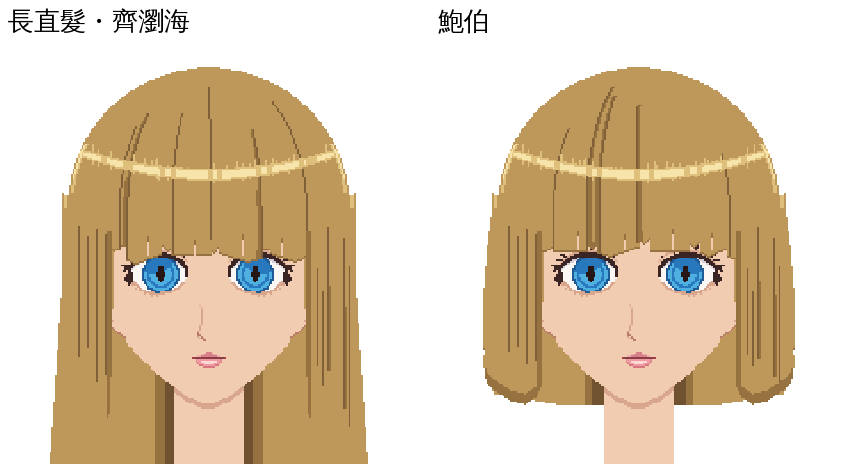
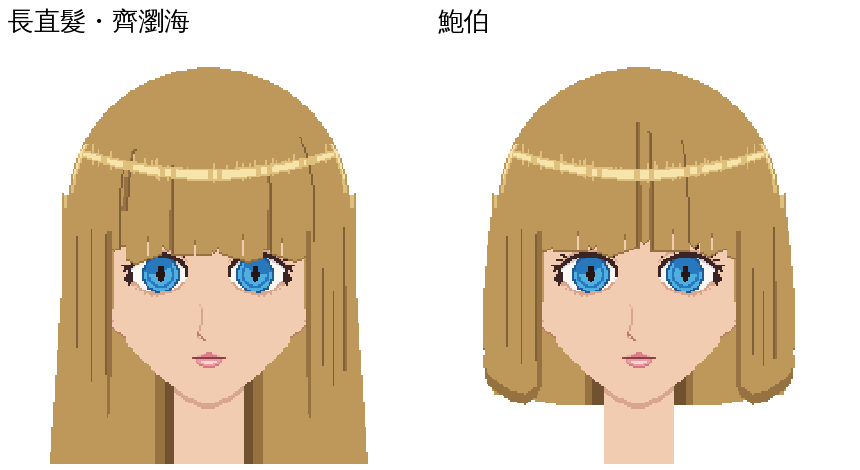
droom 臉模 v2：頭髮線條減少（使用者：線太多）——瀏海分界一半以上不畫、多半只畫中下段；兩側線距拉開、一半不畫
Claude-Session: https://claude.ai/code/session_01FDQv7ddy7JMjePn6AqJ3VJ

diff --git a/web/droom/face_mold/v2/hair_one.py b/web/droom/face_mold/v2/hair_one.py
@@ -124,9 +124,9 @@ def render(img,stage):
   rl=random.Random(5 if HS!='bob' else 9)
   ytop,ybot=int(CY-RO*.86),BANG_Y+6
   for ph in MER[1:-1]:
-    kind=rl.choices(['none','thin','thick'],[.3,.42,.28])[0]
+    kind=rl.choices(['none','thin','thick'],[.52,.26,.22])[0]   # 使用者：線太多 → 一半以上不畫
     if kind=='none':continue
-    y0=rl.randint(ytop,int(CY-RO*.35));y1=ybot if rl.random()<.7 else rl.randint(int(CY-RO*.1),ybot)
+    y0=rl.randint(int(CY-RO*.6),int(CY-RO*.15));y1=ybot if rl.random()<.6 else rl.randint(int(CY-RO*.1),ybot)   # 多半只畫中下段
     side=rl.choice([-1,1])                                  # 粗陰影長在分界的哪一邊（被另一束壓住的那邊）
     for y in range(y0,y1):
       x=round(mer_x(ph,y))
@@ -141,8 +141,8 @@ def render(img,stage):
   for s in(-1,1):
     # 兩側也照瀏海的規則：分界線有的沒有、有的細、有的粗陰影，長短不一（不再是虛線）
     rs=random.Random(21+s)
-    for x in range(CX+s*58,CX+s*(RO+3),s*rs.choice([3,4,5])):
-      kind=rs.choices(['none','thin','thick'],[.35,.4,.25])[0]
+    for x in range(CX+s*58,CX+s*(RO+3),s*rs.choice([6,7,8])):
+      kind=rs.choices(['none','thin','thick'],[.5,.28,.22])[0]
       if kind=='none':continue
       y0=rs.randint(118,160);y1=rs.randint(190,236 if HS!='bob' else 212)
       for y in range(y0,y1):
